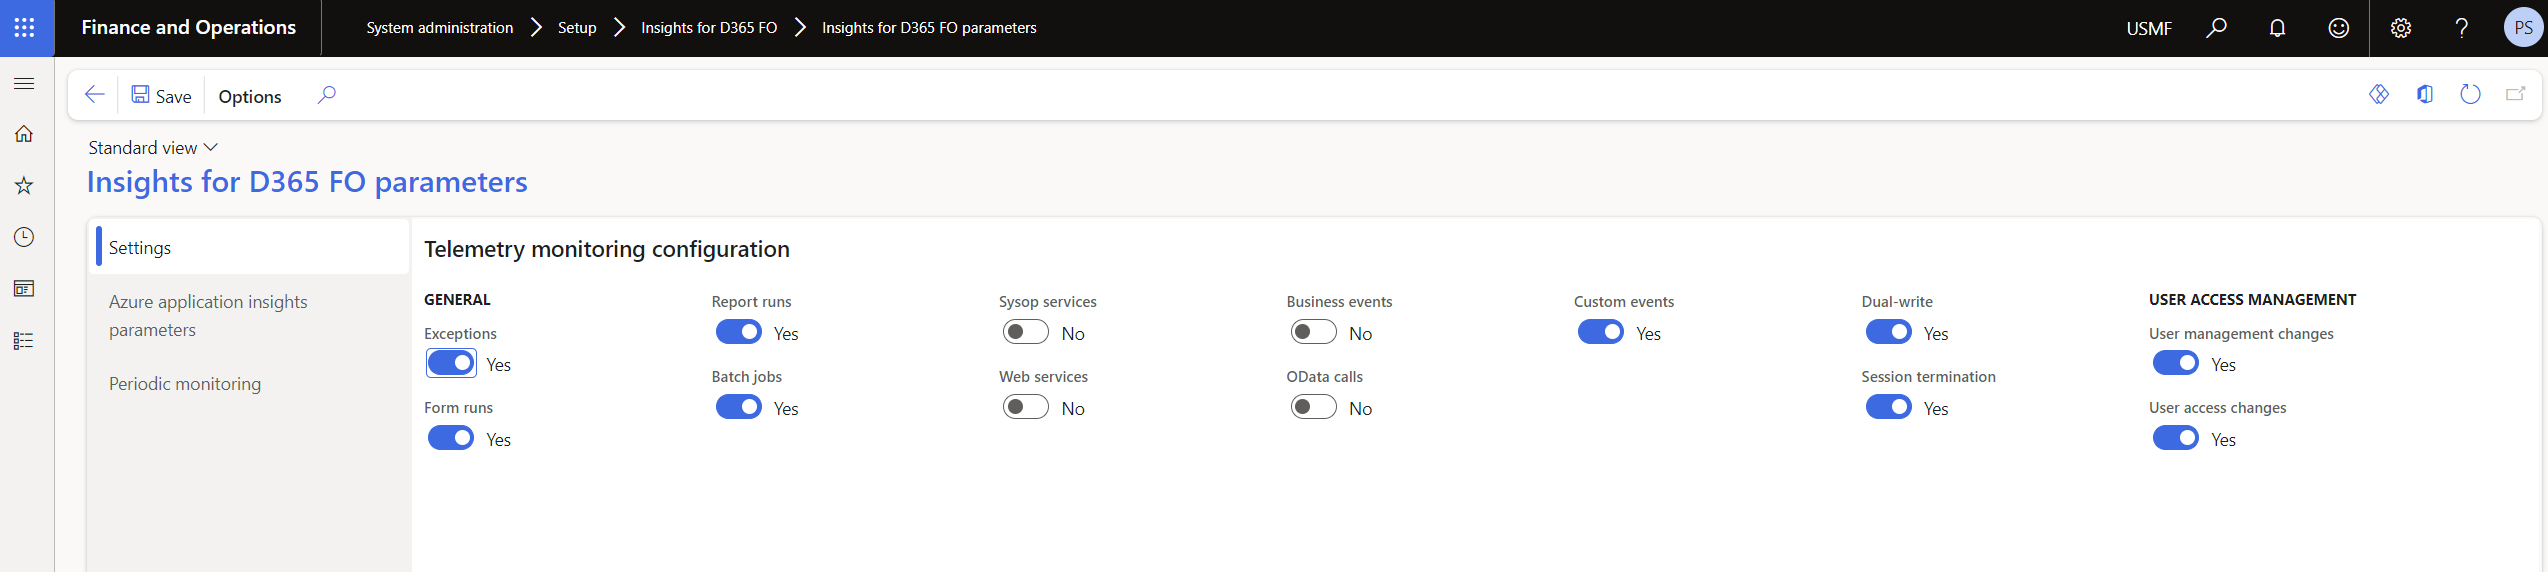
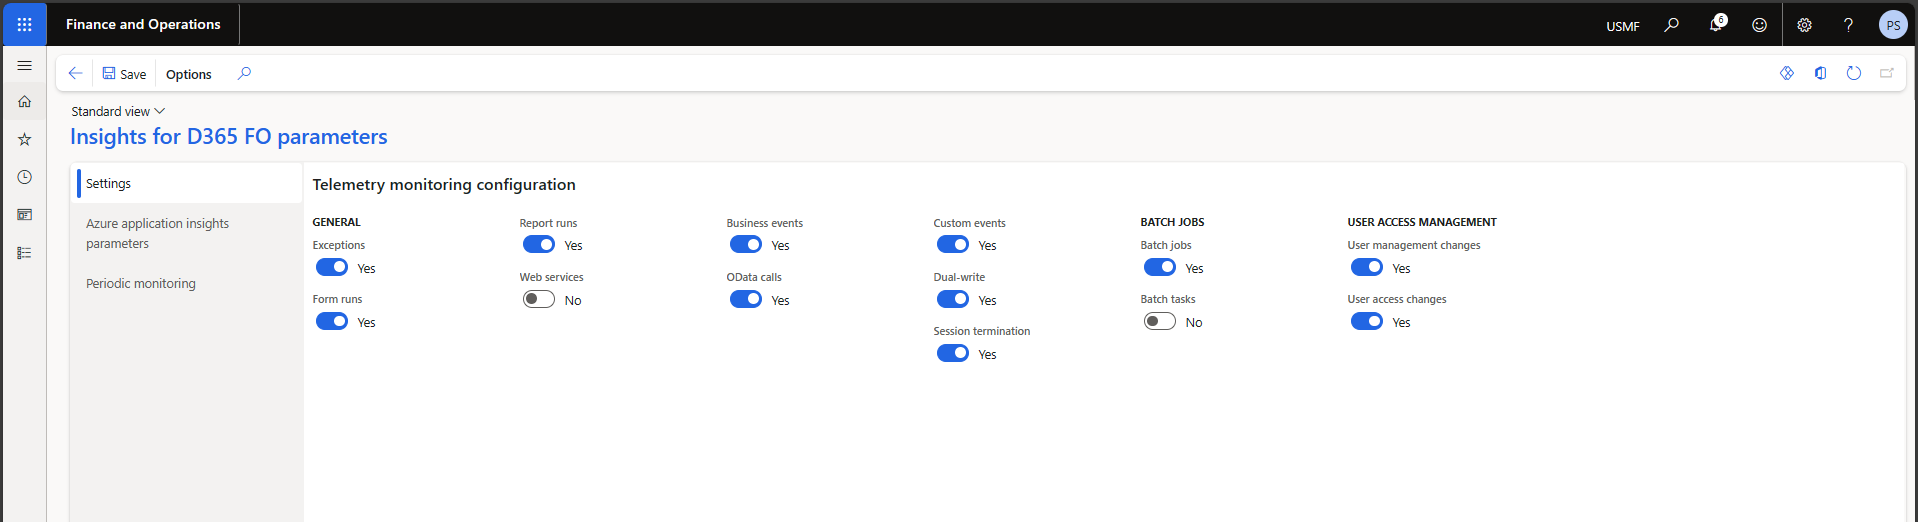
Update Inisghts new release

diff --git a/_layouts/default.html b/_layouts/default.html
@@ -579,26 +579,27 @@ px;height:72px; margin-top: 3px;"></a>
     </ul>
  </li>         
  <li><span id="DXC-INSIGHTS" class="caret">Insights for D365 FO</span>
-         <ul class="nested" style="list-style-type: none; list-style-image:none;" >
-           <li><a href="https://dxcanzproduct.github.io/DXC-Products-for-Microsoft-Business-Applications/DXC-INSIGHTS/Release-notes.html">Release notes</a></li>
-           <li><a href="https://dxcanzproduct.github.io/DXC-Products-for-Microsoft-Business-Applications/DXC-INSIGHTS/Introduction.html">Introduction</a></li>
-           <li><a href="https://dxcanzproduct.github.io/DXC-Products-for-Microsoft-Business-Applications/DXC-INSIGHTS/setup.html">Setup</a></li>
-           <li><span id="Periodic-monitoring-configuration" class="caret">Periodic monitoring</span>
-            <ul class="nested" style="list-style-type: none; list-style-image:none;" >
-              <li><a href="https://dxcanzproduct.github.io/DXC-Products-for-Microsoft-Business-Applications/DXC-INSIGHTS/Periodic-monitoring-configuration/Periodic_monitoring_configuration.html">Periodic monitoring configuration</a></li>
-              <li><a href="https://dxcanzproduct.github.io/DXC-Products-for-Microsoft-Business-Applications/DXC-INSIGHTS/Periodic-monitoring-configuration/Number_sequence_monitoring.html">Number sequence monitoring</a></li>
-            </ul>
-           </li>  
-           <li><a href="https://dxcanzproduct.github.io/DXC-Products-for-Microsoft-Business-Applications/DXC-INSIGHTS/Batch_job_monitoring.html">BatchJob monitoring</a></li> 
-           <li><a href="https://dxcanzproduct.github.io/DXC-Products-for-Microsoft-Business-Applications/DXC-INSIGHTS/Review_and_set_up_monitored_data.html">Review and set up monitored data</a></li>
-           <li><span id="Azure-application-insights" class="caret">Azure Application Insights</span>
-            <ul class="nested" style="list-style-type: none; list-style-image:none;" >
-              <li><a href="https://dxcanzproduct.github.io/DXC-Products-for-Microsoft-Business-Applications/DXC-INSIGHTS/Azure-application-insights/Dashboards.html">Dashboards</a></li>
-              <li><a href="https://dxcanzproduct.github.io/DXC-Products-for-Microsoft-Business-Applications/DXC-INSIGHTS/Azure-application-insights/Azure_alerts.html">Alerts on Azure Azure Application Insights</a></li>
-            </ul>
-           </li>  
-           <li><a href="https://dxcanzproduct.github.io/DXC-Products-for-Microsoft-Business-Applications/DXC-INSIGHTS/FAQ.html">FAQ</a></li> 
+    <ul class="nested" style="list-style-type: none; list-style-image:none;" >
+      <li><a href="https://dxcanzproduct.github.io/DXC-Products-for-Microsoft-Business-Applications/DXC-INSIGHTS/Release-notes.html">Release notes</a></li>
+      <li><a href="https://dxcanzproduct.github.io/DXC-Products-for-Microsoft-Business-Applications/DXC-INSIGHTS/Introduction.html">Introduction</a></li>
+      <li><a href="https://dxcanzproduct.github.io/DXC-Products-for-Microsoft-Business-Applications/DXC-INSIGHTS/setup.html">Setup</a></li>
+      <li><span id="Periodic-monitoring-configuration" class="caret">Periodic monitoring</span>
+        <ul class="nested" style="list-style-type: none; list-style-image:none;" >
+          <li><a href="https://dxcanzproduct.github.io/DXC-Products-for-Microsoft-Business-Applications/DXC-INSIGHTS/Periodic-monitoring-configuration/Periodic_monitoring_configuration.html">Periodic monitoring configuration</a></li>
+          <li><a href="https://dxcanzproduct.github.io/DXC-Products-for-Microsoft-Business-Applications/DXC-INSIGHTS/Periodic-monitoring-configuration/Number_sequence_monitoring.html">Number sequence monitoring</a></li>
         </ul>
+      </li>  
+      <li><a href="https://dxcanzproduct.github.io/DXC-Products-for-Microsoft-Business-Applications/DXC-INSIGHTS/Batch_job_monitoring.html">BatchJob monitoring</a></li> 
+      <li><a href="https://dxcanzproduct.github.io/DXC-Products-for-Microsoft-Business-Applications/DXC-INSIGHTS/Review_and_set_up_monitored_data.html">Review and set up monitored data</a></li>
+      <li><span id="Azure-application-insights" class="caret">Azure Application Insights</span>
+        <ul class="nested" style="list-style-type: none; list-style-image:none;" >
+          <li><a href="https://dxcanzproduct.github.io/DXC-Products-for-Microsoft-Business-Applications/DXC-INSIGHTS/Azure-application-insights/Dashboards.html">Dashboards</a></li>
+          <li><a href="https://dxcanzproduct.github.io/DXC-Products-for-Microsoft-Business-Applications/DXC-INSIGHTS/Azure-application-insights/Azure_alerts.html">Alerts on Azure Azure Application Insights</a></li>
+        </ul>
+      </li> 
+      <li><a href="https://dxcanzproduct.github.io/DXC-Products-for-Microsoft-Business-Applications/DXC-INSIGHTS/Limitations.html">Limitations</a></li>  
+      <li><a href="https://dxcanzproduct.github.io/DXC-Products-for-Microsoft-Business-Applications/DXC-INSIGHTS/FAQ.html">FAQ</a></li> 
+    </ul>
  </li>          
       <li><span id="DXC-ITEM-CREATION-WIZARD" class="caret">Item creation wizard</span>
          <ul class="nested" style="list-style-type: none; list-style-image:none;" >

diff --git a/DXC-INSIGHTS/setup.md b/DXC-INSIGHTS/setup.md
@@ -47,6 +47,24 @@ On the ‘Settings’ tab, update and save the types of telemetry that Insights 
 
 ![Telemetry_settings](IMAGES/Telemetry_settings.png)
 
+**Insights for D365 FO telemetry monitoring configuration**
+
+**Field** | **Description**
+:--       |:--
+**Exceptions** | When enabled in parameters, logs all internal exceptions to a dedicated exceptions table within Azure AppInsights.
+**Form runs** | When enabled in parameters, logs all form opening and running events to a dedicated pageViews table within Azure AppInsights. Details on the form name, menu item name, user id, session id, and time duration required for loading the form will be logged. This telemetry will also facilitate the analysis of user behavior and form usage patterns.
+**Report runs**  | When enabled in parameters, tracks all report executions (e.g Purchase Order confirmations) along with time duration required to run the report as requests in the Azure AppInsights requests table.
+**Web services** | This parameter can be used to control the logging of web service calls to your D365 FO application. The telemtry logging on web services is not an out-of-box feature, but can be implemented on your custom web service calls as an extension.
+**Business events** | When enabled in parameters, logs all active business events that are triggered within you D365 FO (e.g., Purchase Order confirmation business event) to the Azure AppInsights custom events table.
+**OData calls**  | When enabled in parameters, logs all ODATA calls (Create, read, Update, delete) to the custom events table on Azure AppInsights.
+**Custom events** | This parameter can be used to control the logging of any other custom telemetry logging extensions that you have made to you application with Insights for D365 FO.
+**Dual-write** | When enabled in parameters, logs all exceptions that arise during a dual-write sync to a dedicated exceptions table within Azure AppInsights and tags the exception type as "Dual-write". This is an additional feature controlled by its own feature key **Insights for D365 FO Dual Write**. Refer to [Feature management](./Release-notes.md#feature-management)
+**Session termination**  | When enabled in parameters, logs telemetry on all unexpected session shutdown / termibnation causing an interrupt in the system to the custom events table on Azure AppInsights.
+**Batch jobs** | When enabled in parameters, logs telemetry on all batch jobs as it finishes execution (including key details like batch job id, duration etc) to the custom events table on Azure AppInsights. Batch jobs that fail during execution will also be logged, and a corresponding record will be created to the exceptions table on Azure AppInsights with details on the error that ocurred.
+**Batch tasks** | When enabled in parameters, logs telemetry on all batch tasks as it finishes execution to the custom events table on Azure AppInsights.
+**User management changes**  | When enabled in parameters, logs all addition/removal of users to the custom events table on Azure AppInsights.
+**User access changes**  | When enabled in parameters, logs all changes in roles of users to the custom events table on Azure AppInsights.
+
 ### 4.	Configure the Azure Application Insights telemetry
 On the 'Azure application insights parameters’ tab, create a new record and paste the key you copied earlier from the [Azure Application Insights instance](setup.md#1-Azure-Application-Insights-instance) step into the ‘Instrumentation key’ field. Enter a description for the instance and enable the ‘Log telemetry’ field to allow telemetry to be logged to the Azure Application Insights instance. More than one Application insights instance can be added and enabled.
 

diff --git a/DXC-INSIGHTS/Batch_job_monitoring.md b/DXC-INSIGHTS/Batch_job_monitoring.md
@@ -26,11 +26,22 @@ ms.search.validFrom: 2023-03-28
 ms.dyn365.ops.version: 10.0.32
 ---
 
-# BatchJob Monitoring
-Batch job monitoring with Insights for D365 FO allows users to monitor batch job execution and detect if batch jobs are completing earlier than expected or if they are finishing later than anticipated (which might suggest performance issues or delays).
+# Batch job monitoring setup
+Enable Batch job monitoring on the Insights for D365 parameters form.
+
+Navigate to **System administration > Setup > Process automations** . Click on **Background process** and Ensure that the 'Insights for D365 monitoring automation' task is added to the process automation tasks schedule. is task guarantees that all relevant event handlers are attached, enabling comprehensive monitoring of batch jobs and tasks within D365 FO with Insights. 
+
+If you do not see the 'Insights for D365 monitoring automation' task in the list, click on **Initialize process automations** in the Action pane to initialize the automated process task.
+
+![ProcessAutomationTask](IMAGES/ProcessAutomationTask.png)
+
+The automated task will only run if the 'Insights for D365 FO' feature is enabled, and batch jobs monitoring or batch tasks monitoring is enabled in the Insights for D365 parameters.
+
+# Inconsistent Batch job completion Monitoring
+Inconsistent Batch job completion monitoring with Insights for D365 FO allows users to monitor batch job execution completion times and detect if batch jobs are completing earlier than expected or if they are finishing later than anticipated (which might suggest performance issues or delays).
 ### 1. Enable batch job monitoring with Insights for D365 FO
 To setup monitoring, navigate to **System administration > Inquiries > Batch jobs** and open the enhanced batch job details view in edit mode. Users will  need to :
-1. Enable monitoring with Insights for D365 FO
+1. Enable monitoring with Insights for D365 FO under 'Inconsistent Batch job completion' group
 2. Enter the estimated minimum number of minutes that the batch job is expected to take to complete execution in the 'Minimum completion time' field.
 3. Enter the estimated maximum number of minutes that the batch job is expected to take to complete execution in the 'Maximum completion time' field.
 4. Click **Save**
@@ -39,4 +50,5 @@ To setup monitoring, navigate to **System administration > Inquiries > Batch job
 
 Telemetry will be logged with Insights for D365 FO at the start and end of each batch job execution. A summary of batch jobs that finish behind schedule or too early is available on Azure Application Insights with the Insights for D365 FO Dashboard provided by DXC. You can also set up Alerts on Azure Application Insights to send a notification to a chosen destination, such as an email, SMS message, web hook, or it can even execute an action with Azure Logic App. Refer to [Setup alerts on continuous monitoring business rules](./Azure-application-insights/Azure_alerts.md#1-setup-alerts-on-continuous-monitoring-business-rules) to setup alerts  for critical batch jobs that are completing earlier than expected or if they are finishing later than anticipated.
 
-
+N.B
+Refer to [Batch jobs limitations](./Limitations.md#product-limitations) to understand current limitations on batch job monitoring

diff --git a/DXC-INSIGHTS/Release-notes.md b/DXC-INSIGHTS/Release-notes.md
@@ -32,7 +32,7 @@ This document describes the features that are either new or changed in the relea
 
 # Current version
 
-### Release 10.0.36.202311291
+### Release 10.0.36.202403261
 
 Insights for D365 FO 10.0.36 runs on the following Microsoft releases
 
@@ -42,6 +42,33 @@ Microsoft Dynamics 365 application	| 10.0.34	  | [What’s new or changed in Dyn
 Microsoft Dynamics 365 application	| 10.0.35	  | [What’s new or changed in Dynamics 365 application version 10.0.35](https://docs.microsoft.com/en-us/dynamics365/finance/get-started/whats-new-changed-10-0-35)
 Microsoft Dynamics 365 application	| 10.0.36	  | [What’s new or changed in Dynamics 365 application version 10.0.36](https://docs.microsoft.com/en-us/dynamics365/finance/get-started/whats-new-changed-10-0-36)
 Microsoft Dynamics 365 application	| 10.0.37	  | [What’s new or changed in Dynamics 365 application version 10.0.37](https://docs.microsoft.com/en-us/dynamics365/finance/get-started/whats-new-changed-10-0-37)
+Microsoft Dynamics 365 application	| 10.0.38	  | [What’s new or changed in Dynamics 365 application version 10.0.38](https://docs.microsoft.com/en-us/dynamics365/finance/get-started/whats-new-changed-10-0-38)
+Microsoft Dynamics 365 application	| 10.0.39	  | [What’s new or changed in Dynamics 365 application version 10.0.39](https://docs.microsoft.com/en-us/dynamics365/finance/get-started/whats-new-changed-10-0-39)
+
+#### Build 10.0.36.202403261
+Release date: 02 April 2024
+
+<ins>New features</ins>
+
+Number	| Name		 | Description
+:--	|:--		  	|:--	
+17151	| OData Event logging with Insights for D365 FO	| Add Telemetry logging support for all OData CRUD (Create, Read, Update, Delete) events. 
+17456	| Batch Task monitoring with Insights for D365 FO	| Add Telemetry logging support for batch tasks with Insights for D365 FO.
+
+
+<ins>Bug fixes</ins>
+
+Number	| Name		 | Description
+:--	|:--		  	|:--	
+16598	| Periodic monitoring configuration batch job	| Update periodic monitoring batch to ensure it is run in batch processing
+16932	| Business event logging with Insights for D365 FO	| Fix issues with logging of Business events resulting in empty "n/a" records getting logged into Azure App Insights.
+17016	| Business event logging with Insights for D365 FO	| Log Telemetry on active Business events only.
+17455	| Batch job monitoring with Insights for D365 FO	| Fix isues with RunBaseBatch based batch jobs not getting monitored with Insights for D365 FO.
+
+
+# Previous Version(s)
+
+### Release 10.0.36.202311291
 
 #### Build 10.0.36.202311291
 Release date: 29 November 2023
@@ -51,9 +78,6 @@ Release date: 29 November 2023
 Number	| Name		 | Description
 :--	|:--		  	|:--	
 16609	| Telemetry logging with Insights for D365 FO	| Fix issues with telemetry logging when users are removed from the system.
-
-
-# Previous Version(s)
 
 ### Release 10.0.34.202310031
 

diff --git a/DXC-INSIGHTS/Limitations.md b/DXC-INSIGHTS/Limitations.md
@@ -1,0 +1,41 @@
+---
+# required metadata
+
+title: Insights for D365 FO
+description: Insights for D365 FO -Limitations
+author: Patrick Sharma
+manager: Kym Parker
+ms.date: 2023-10-03
+ms.topic: article
+ms.prod: 
+ms.service: dynamics-ax-applications
+ms.technology: 
+
+# optional metadata
+
+ms.search.form:  DXCInsightsParameters
+audience: Application User
+# ms.devlang: 
+ms.reviewer: Patrick Sharma
+
+# ms.tgt_pltfrm: 
+# ms.custom: ["21901", "intro-internal"]
+ms.search.region: InsightsForD365FO
+# ms.search.industry: [leave blank for most, retail, public sector]
+ms.author: Patrick Sharma
+ms.search.validFrom: 2023-03-27
+ms.dyn365.ops.version: 10.0.30
+---
+
+# Product limitations
+
+The following limitations apply to monitoring and telemtry logging with Insights for D365FO
+
+**Batch jobs / batch tasks**
+1. Batch jobs developed on the RunBaseBatch framework (by extending the run method) and run in User session mode synchronously will not be monitored / logged to Azure app insights.
+2. Batch jobs will not be monitored / logged to Azure app insights during the time in between the enablement of Batch job monitoring on the Insights for D365 parameters form and the next scheduled run of the 'Insights for D365 monitoring automation' task. To compensate for this time window, the repeat interval of the 'Insights for D365 monitoring automation' can be reduced
+
+**OData Monitoring**
+1. The monitoring of OData calls with Insights for D365 FO is reliant on the attachment of event handlers on the AOS instances. However, these handlers detach during application downtime (maintenance, upgrades) and need to be reattached loading any form after application restart. OData calls won't be monitored between application downtime and the first form load after restart.
+  
+

diff --git a/DXC-INSIGHTS/Periodic-monitoring-configuration/Periodic_monitoring_configuration.md b/DXC-INSIGHTS/Periodic-monitoring-configuration/Periodic_monitoring_configuration.md
@@ -45,7 +45,7 @@ Additionally, you can change how frequently this rule should run by opening the 
 ### 2.Start the Periodic Monitoring Batch Job
 The monitoring rules focus on polling the current system health. This is accomplished through a single batch job that executes the monitoring business rules. Navigate to **System administrators > Setup > Insights for D365 FO >Periodic monitoring > Periodic monitoring batch service**
 
-Only one instance is required, and it does not need recurrence as this is set automatcially based on the refresh intervals set in [Periodic Monitoring Configuration](Periodic_monitoring_configuration.md#1-periodic-monitoring-configuration). The batch job will manage itself and sleep until the next time it needs to run. Ensure to set the **Batch processing** option to 'Yes' and click *'OK'* to start the batch job.
+Only one instance is required, and it does not need recurrence as this is set automatcially based on the refresh intervals set in [Periodic Monitoring Configuration](Periodic_monitoring_configuration.md#1-periodic-monitoring-configuration). The batch job will manage itself and sleep until the next time it needs to run. The **Batch processing** option is set to 'Yes' by default. Click *'OK'* to start the batch job.
 
 ![Monitoring_batch](../IMAGES/Monitoring_batch.png)
 
